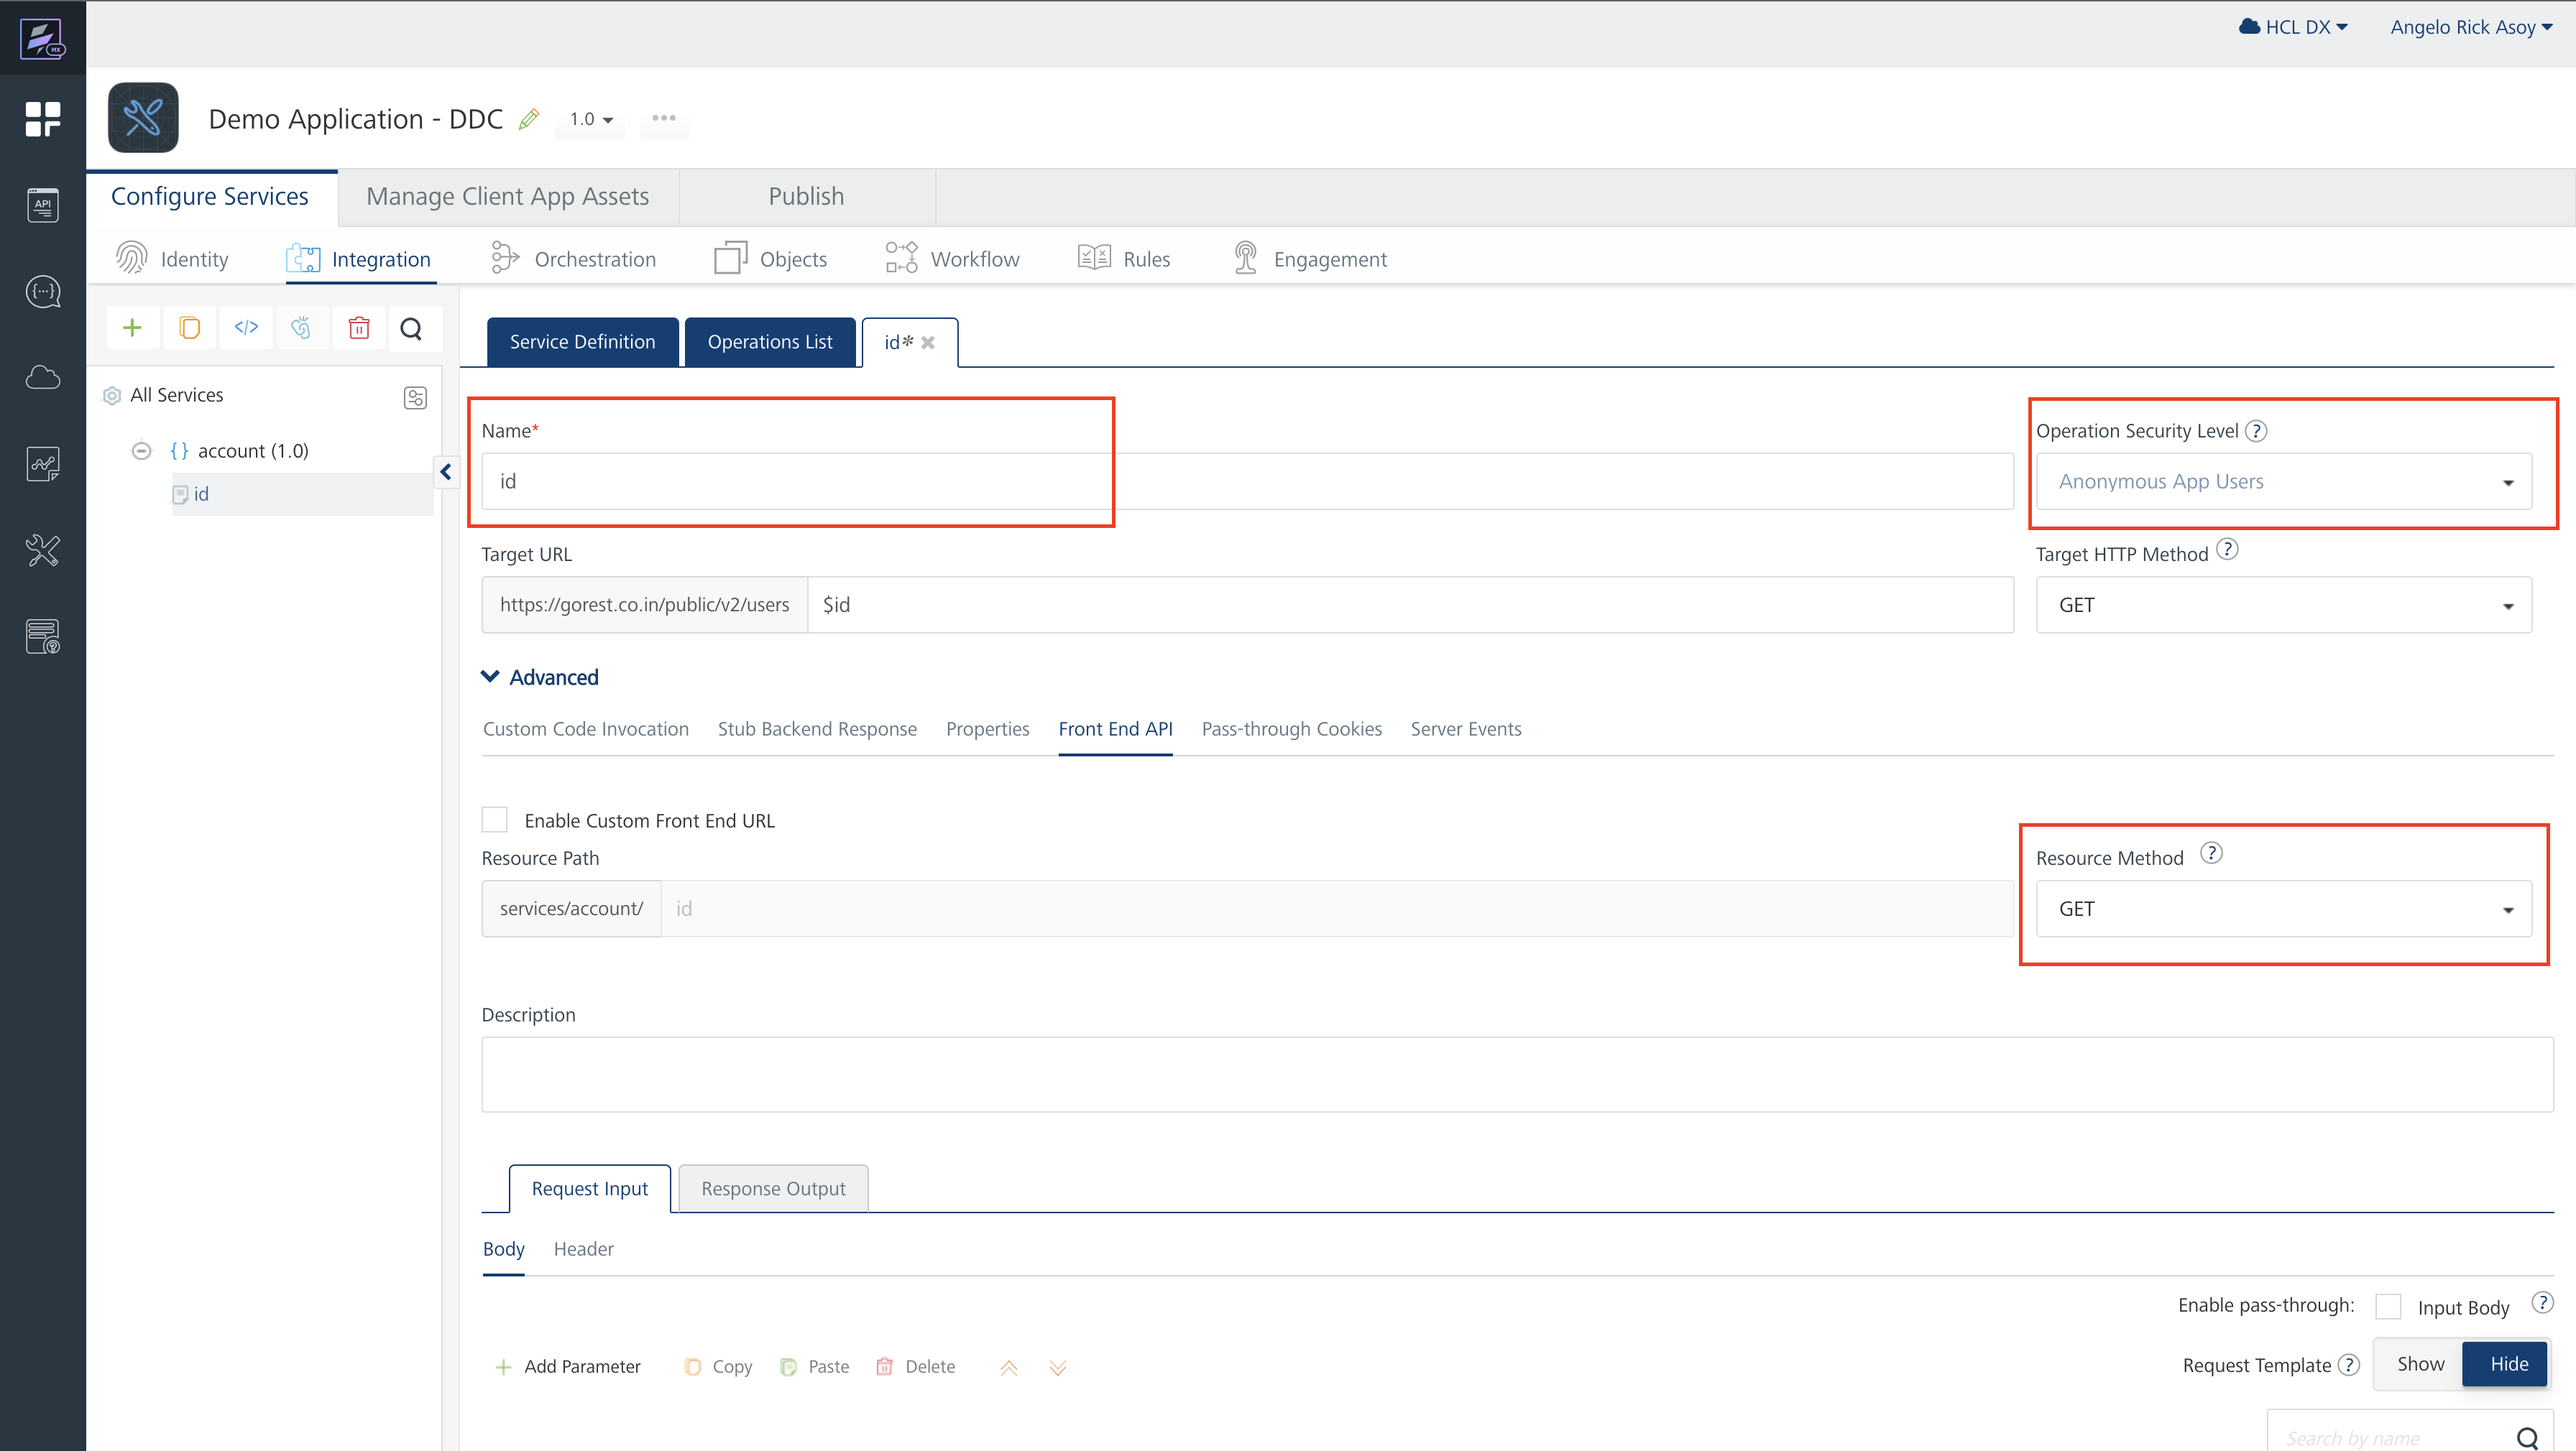
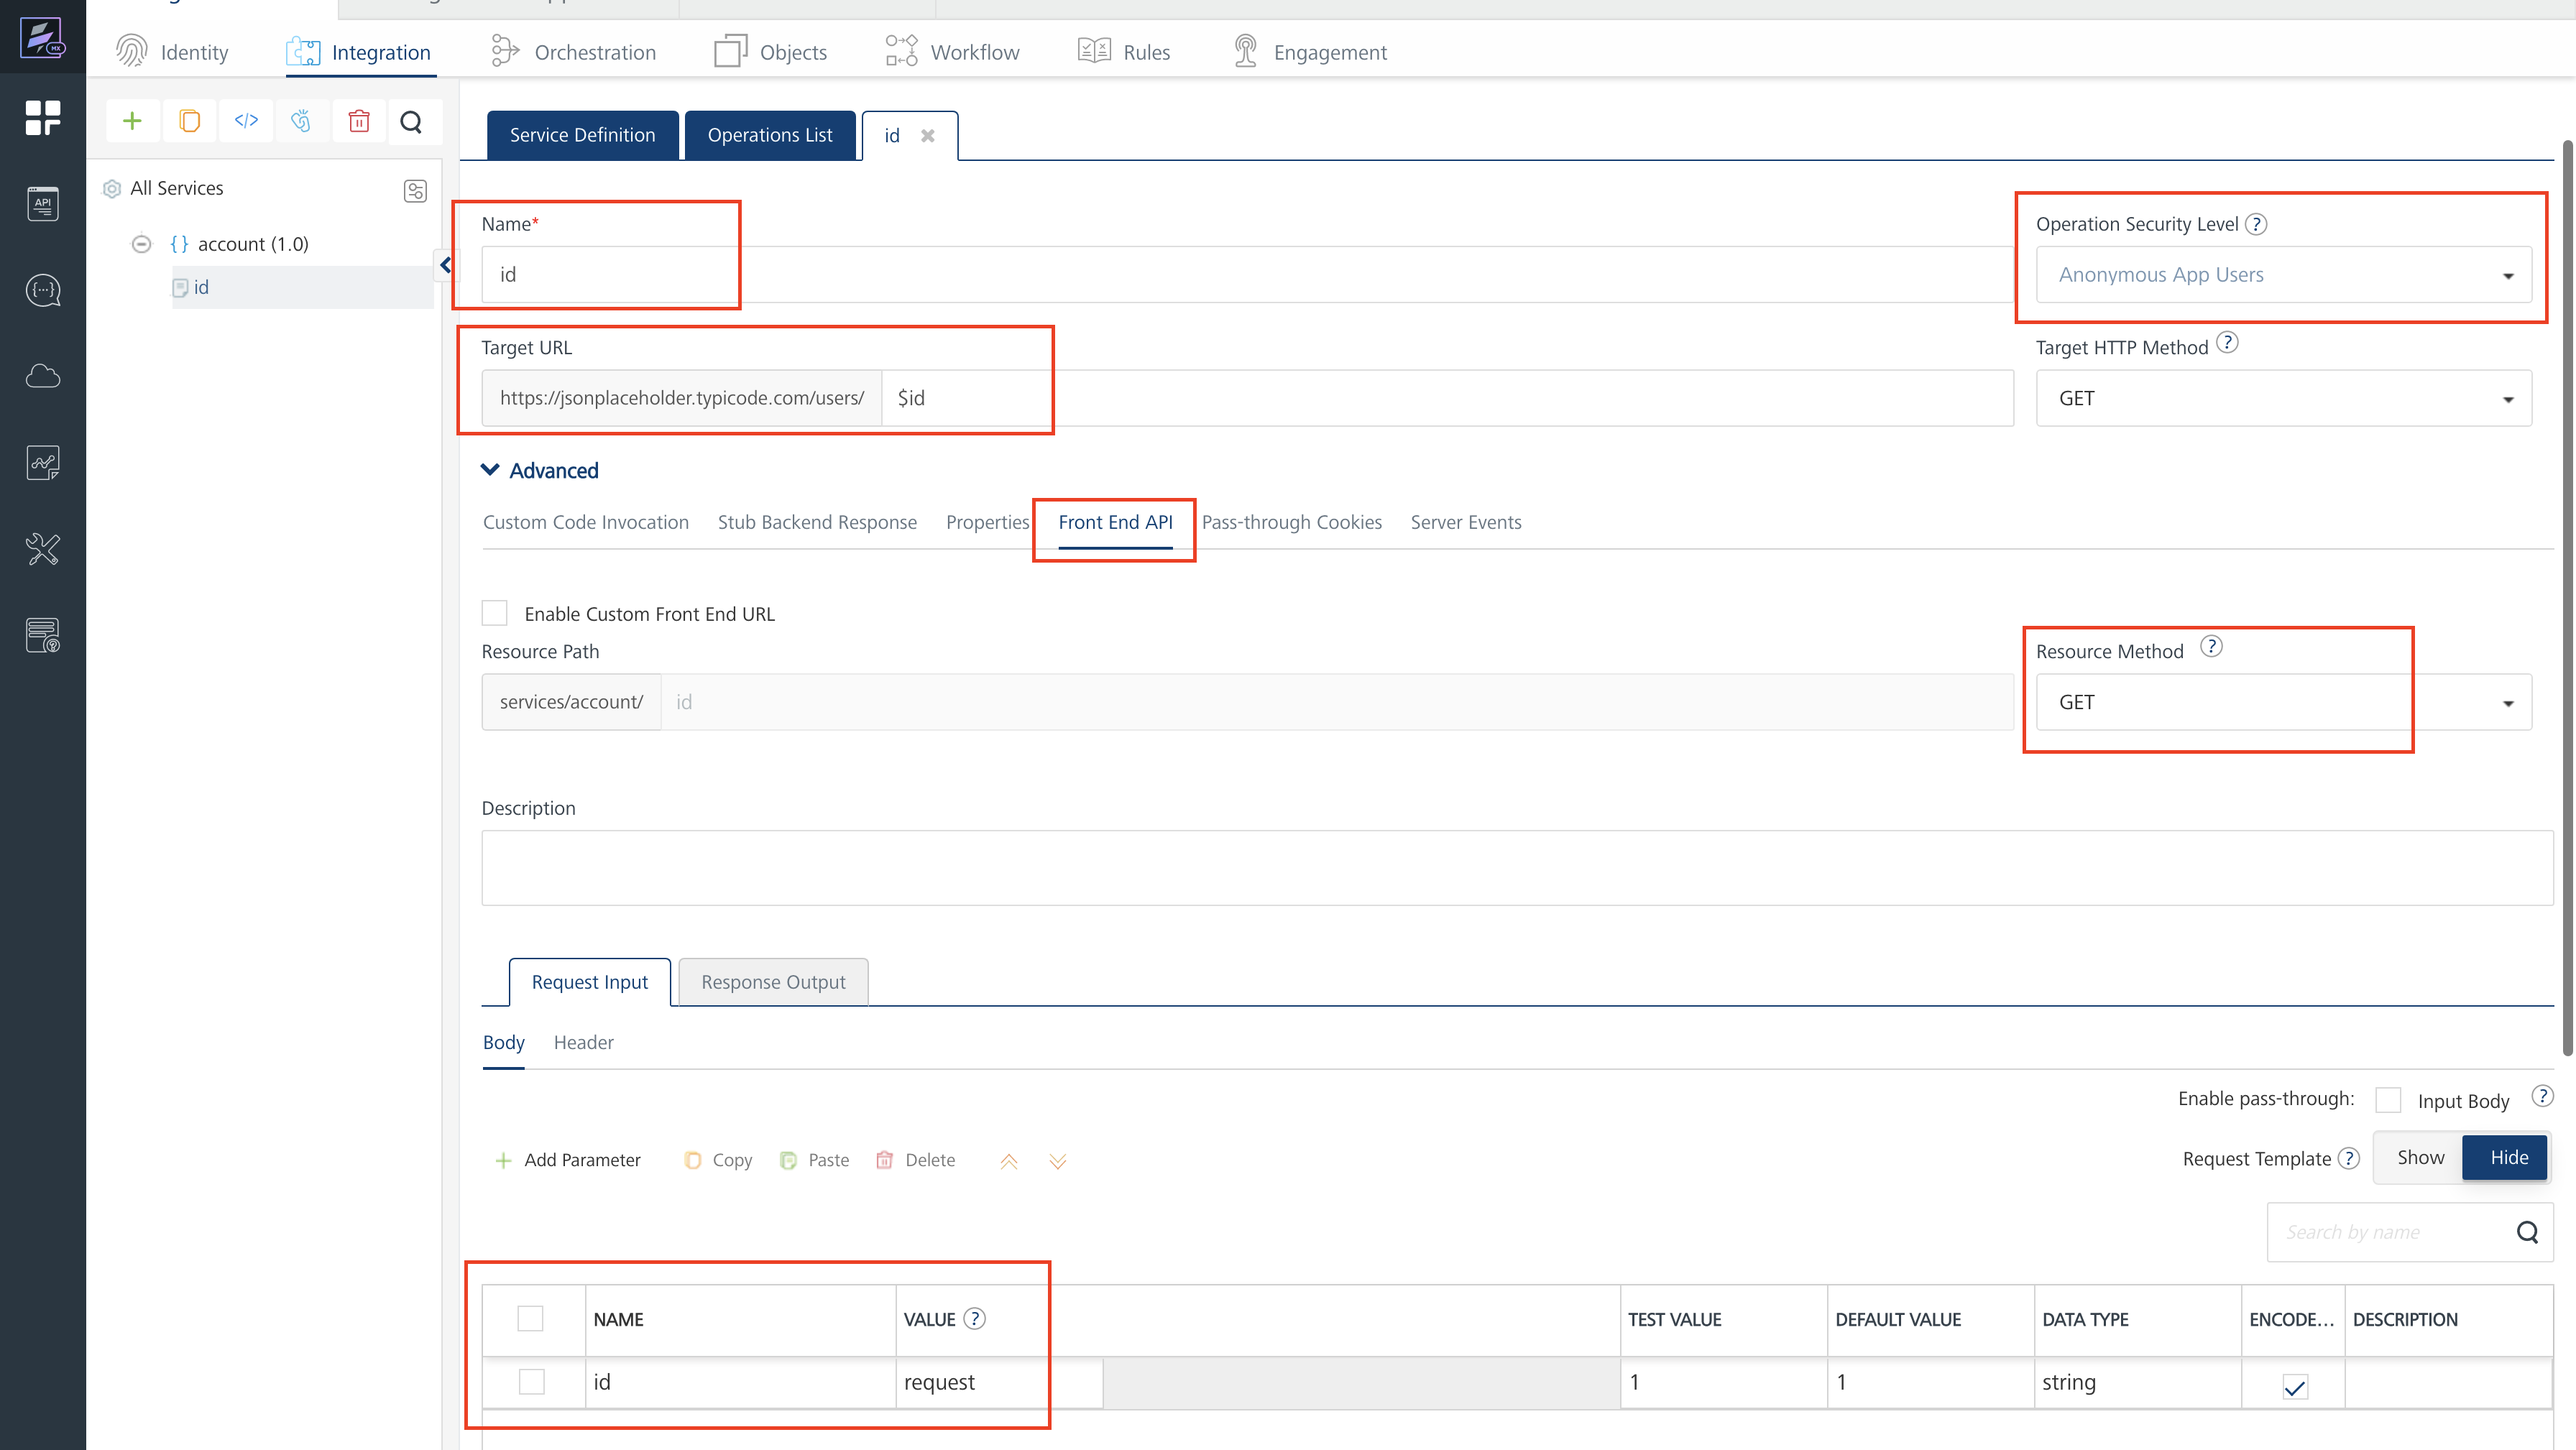
DXQ-25195 fix test fest request change

diff --git a/docs/integrate_apps/ddc/usage/integrating_voltmx_foundry/configuring_voltmx_foundry_to_connect_to_ddc.md b/docs/integrate_apps/ddc/usage/integrating_voltmx_foundry/configuring_voltmx_foundry_to_connect_to_ddc.md
@@ -22,18 +22,20 @@ Follow the steps below to use the new integration service with Volt MX Foundry c
 
     ![](../../../../assets/Volt_MX_Foundry_Create_Integration.png "Create new API from Integration Service")
 
-4.  Configure the service definition. Add a **Name**, then select **Service Type** and Add **Base URL**. Then click **Save & Add Operation**
+4.  Configure the service definition. Enter a **Name**, then select **JSON** as the **Service Type** and enter the **Base URL**. Then click **Save & Add Operation**
 
     ![](../../../../assets/Volt_MX_Foundry_Service_Definitions.png "Fill up the Service Definition")
 
 
-4.  Add an **Operation** for the service that we created. Add **Name**, then under **Operation Security Level**, select **Anonymous App Users** or **Public** since it's the only option right now that is supported in DDC and last, you can modiy the **target URL** if the URL needs modification (see sample below).  Then in the **Advance** section, click **Front End API**. Under **Resource Method** select the **GET** since it's the only method supported in DDC. 
+5.  Add an **Operation** for the service that we created. First is enter a **Name**, then under **Operation Security Level**, select **Anonymous App Users** or **Public** since it's the only option right now that is supported in DDC, and last, you can modify the **Target URL** if the URL needs modification. If you include a parameter in the Target URL, you must define it in the **Request Input**, as shown in the example below. Then in the **Advance** section, click **Front End API**. Under **Resource Method**, select **GET** since it's the only method supported in DDC. 
 
     ![](../../../../assets/Volt_MX_Foundry_Add_Operation.png "Add Operation for the Service")
 
-5. Adding **Response Output**. Click the **Response Output** tab, then click **Add Parameter**. After clicking, a row will appear on the table. Add the **Name**, then the **Path** or the JSON Path. The path is based on the response of the target URL you define in Service Definition. Let's try the service by clicking **Save And Fetch Response** and if everything is okay, then click **Save Operation**.
+6. Adding **Response Output**. Click the **Response Output** tab, then click **Add Parameter**. After clicking, a row will appear on the table. Add the **Name**, then the **Path** or the JSON Path. The path is based on the response of the target URL you define in Service Definition. Let's try the service by clicking **Save And Fetch Response** and if everything is okay, then click **Save Operation**.
 
     ![](../../../../assets/Volt_MX_Foundry_Response_Output_And_Testing.png "Add JSON Path and Testing the Service")
+
+Note: You do not need to map all the responses in the  **Response Output** and only map what you need. Make the response output flat as possible, as shown in the sample above.
 
 ## Publish and Test integration service with Volt MX Foundry
 
@@ -105,7 +107,7 @@ You can use this sample outbound policy as a base:
          <method>GET</method>
       </actions>    
         
-      <!-- Step 3. Add the credential vault slot that we have created. The vault slot name is also the vault slot id hpaa.id you will need to put in the policy. -->
+      <!-- Step 3. Add the credential vault slot that we have created. The vault slot name is also the vault slot id hpaa.slotid you will need to put in the policy. -->
       
       <meta-data>
          <name>hpaa.authtype</name>
@@ -127,3 +129,5 @@ You can use this sample outbound policy as a base:
 `docker cp {path to your policy}/demo_volt_mx_foundry_service_policy.xml {core container}:/tmp/demo_volt_mx_foundry_service_policy.xml`
 
 3. And deploy the policy using the **Config Engine**: `./ConfigEngine.sh update-outbound-http-connection-config -DWasPassword=wpsadmin -DPortalAdminPwd=wpsadmin -DConfigFileName=/tmp/demo_volt_mx_foundry_service_policy.xml`
+
+Note: For additional resources regarding please reading this topic [Outbound HTTP connection](../../../portlets_development/usage/web2_ui/outbound_http_connection/outbound_http.md)
